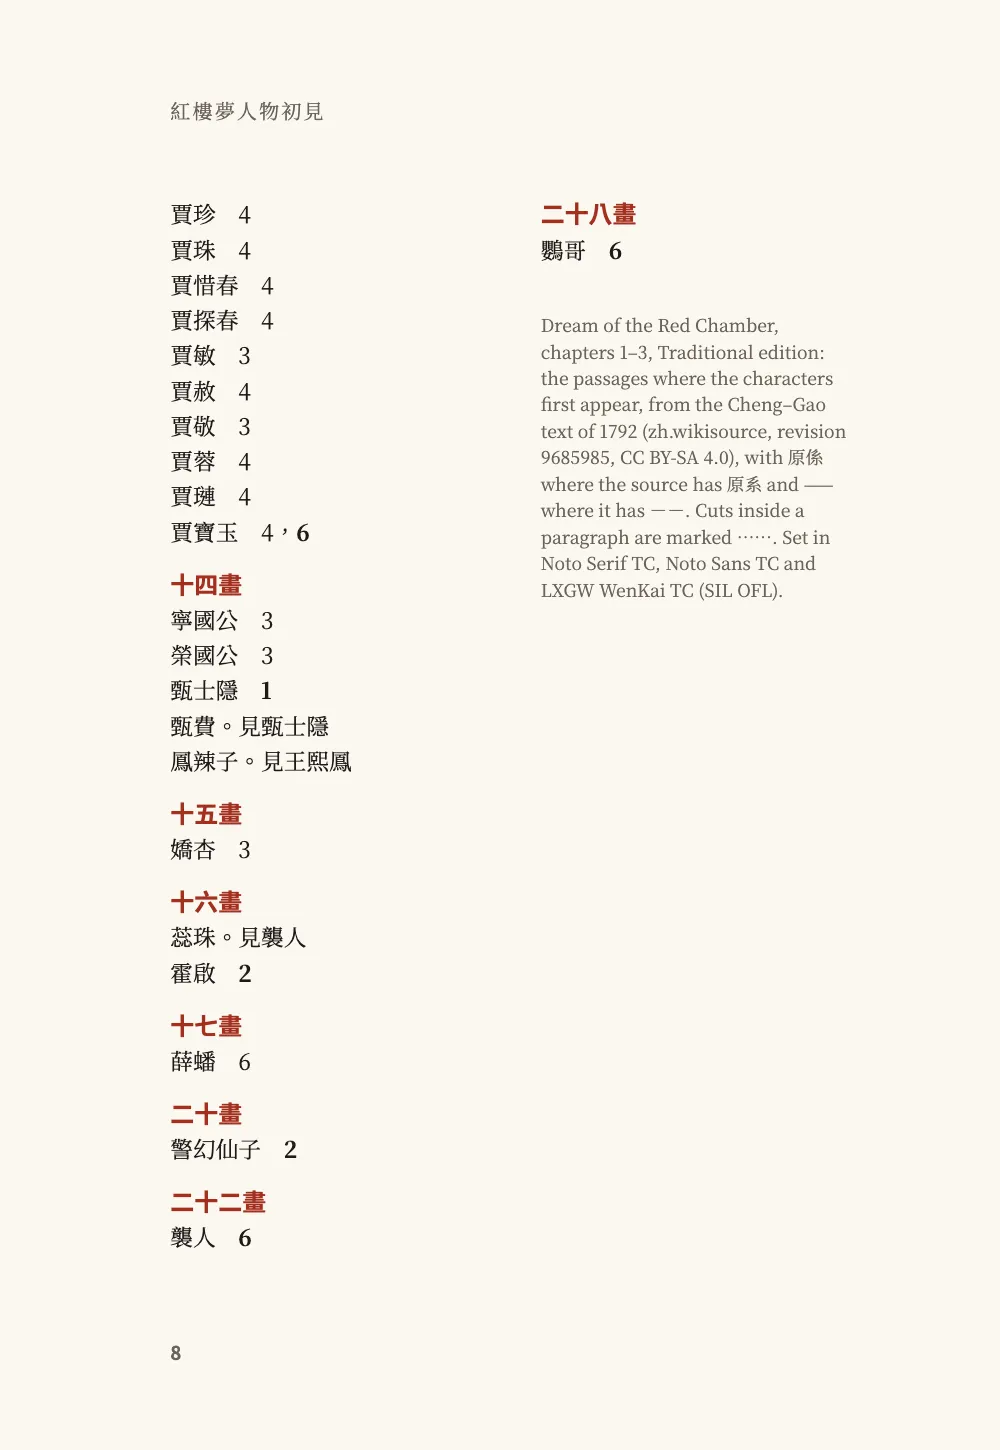
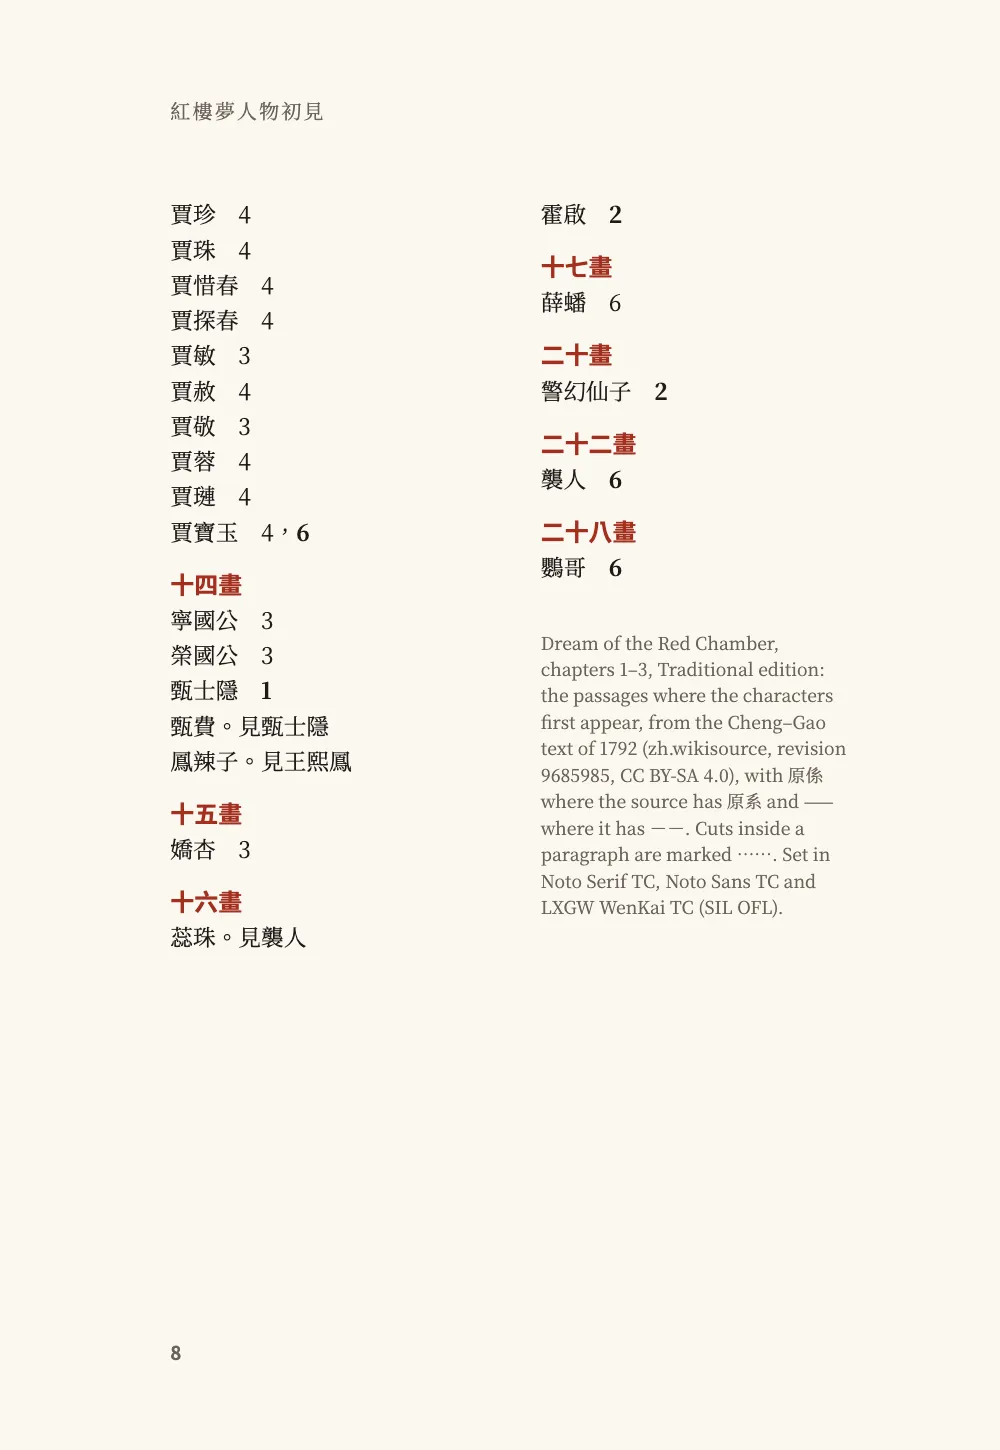
cookbook: the Chinese name index turns column balancing on for its closing pages
Since postext 1.25 a page on a character grid is not balanced unless the configuration asks,
so the recapture left the last page of each index with a full first column and, in the
Simplified edition, the colophon broken after two lines. headings.balancing.enabled: true
levels the two columns again and sets the colophon whole under the second; pages 8 and 16
recaptured from npm, the other pages are unchanged. Write-ups in 7 languages: a pitfall on the
grid default, and the page notes follow the one-sentence note and the page 8 that starts at N.

refs #632

Changed region(s): [[0.527, 0.1241, 0.837, 0.6517], [0.155, 0.6517, 0.279, 0.869]]

diff --git a/cookbook/chinese-name-index/script.js b/cookbook/chinese-name-index/script.js
@@ -113,11 +113,11 @@ const config = () => ({
     boldColor: col('ink'), italicColor: col('ink'), referenceColor: col('ink'),
     textAlign: 'justify', firstLineIndent: em(2), indentAfterHeading: true, // 2 characters
     avoidWidows: true, avoidOrphans: true },
-  headings: { fontFamily: e.kai, fontWeight: 400, color: col('ink'), levels: [
-    { level: 1, fontSize: pt(16), marginBottom: pt(0),
+  // Off by default on a character grid: turned on, the two columns of each index end level.
+  headings: { fontFamily: e.kai, fontWeight: 400, color: col('ink'), balancing: { enabled: true },
+    levels: [{ level: 1, fontSize: pt(16), marginBottom: pt(0),
       advancedDesign: opener(e, 6, '第{numberHan}回'), // 第一回, 第二回… in the edition's script
-      breakBefore: { enabled: true, parity: 'any' } }, // each 回 on a new page
-  ] },
+      breakBefore: { enabled: true, parity: 'any' } }] }, // each 回 on a new page
   headingStyles: [{ ...indexHeading, span: 'page', marginBottom: pt(0),
     advancedDesign: opener(e, 7, '{attr.kicker}', indexNote(e)) }],
   index: index(e),
